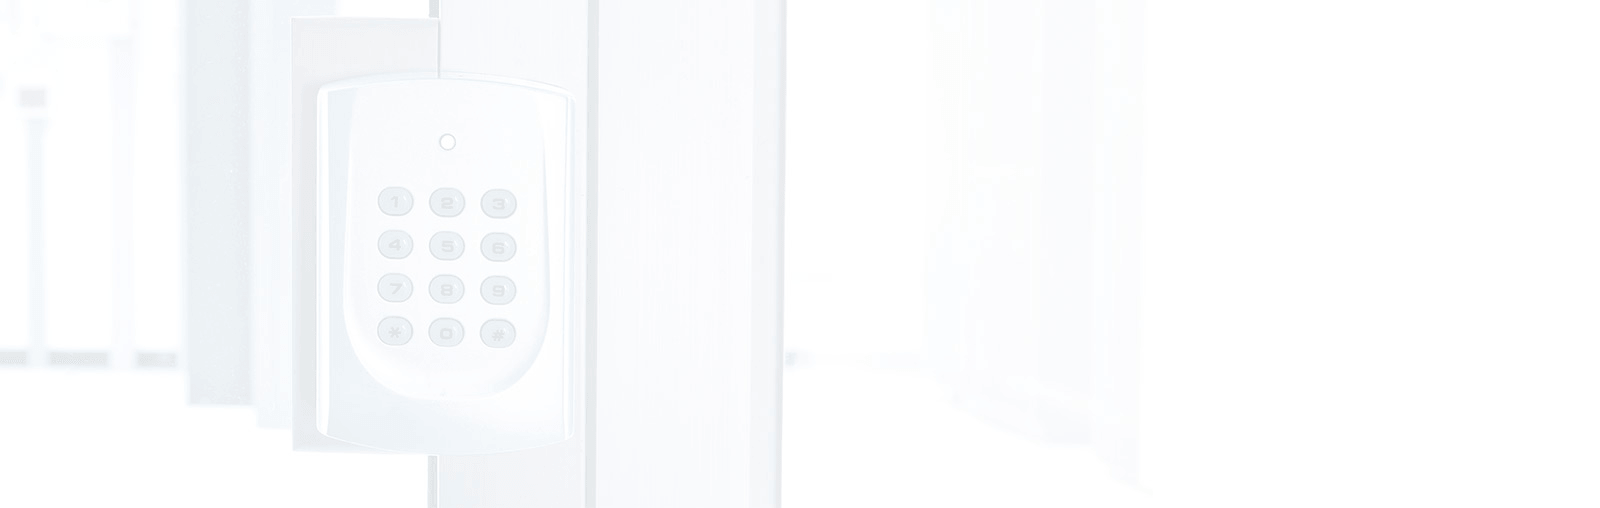
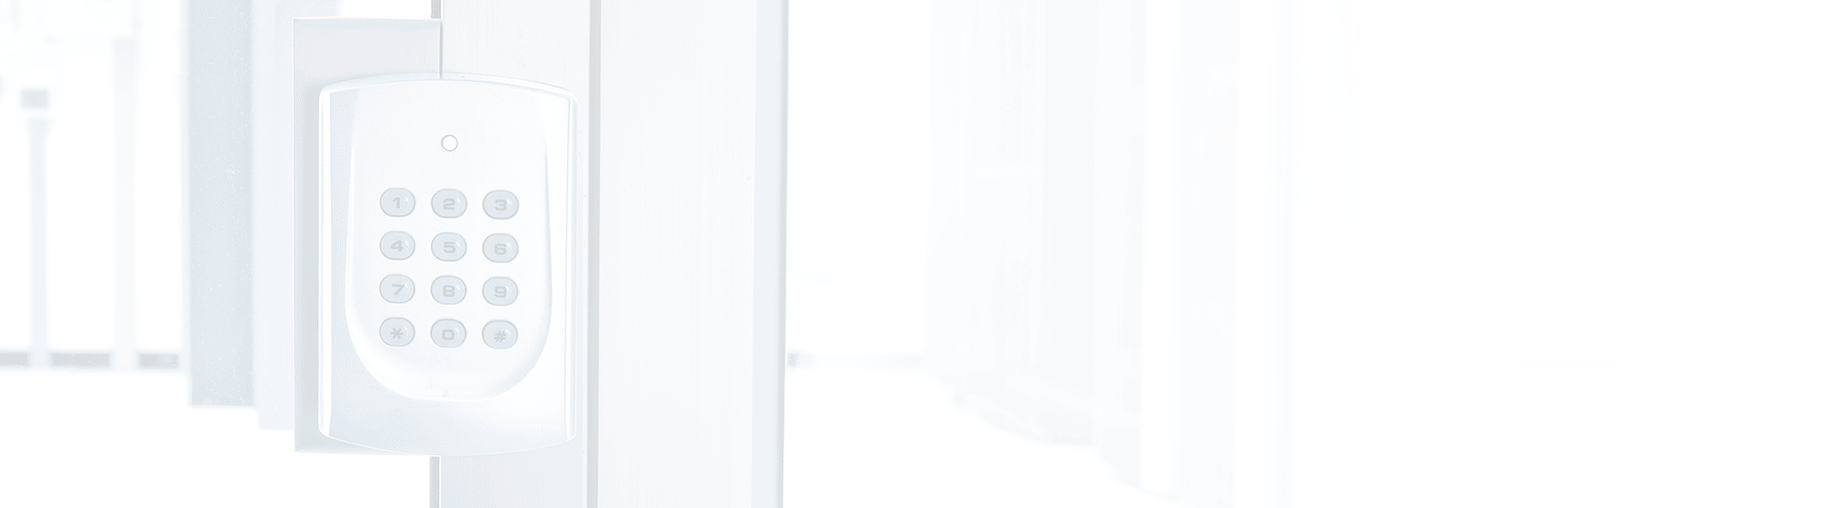
fond sécurité

diff --git a/css/style.css b/css/style.css
@@ -2504,7 +2504,7 @@ footer form #bouton-ok:active {
   width: 635px;
 }
 .fonctionnalites .secu {
-  background: url(../layoutImg/fonc/visu-secu.png) no-repeat;
+  background: url(../layoutImg/fonc/visu-secu.png) no-repeat 50% 0;
   -webkit-background-size: auto 100%;
   -moz-background-size: auto 100%;
   background-size: auto 100%;

diff --git a/less/style.less b/less/style.less
@@ -2408,7 +2408,7 @@ footer{
     }
   }
   .secu{
-    background: url(../layoutImg/fonc/visu-secu.png) no-repeat;
+    background: url(../layoutImg/fonc/visu-secu.png) no-repeat 50% 0;
     .background-size(auto 100%);
   }
   .inter{
